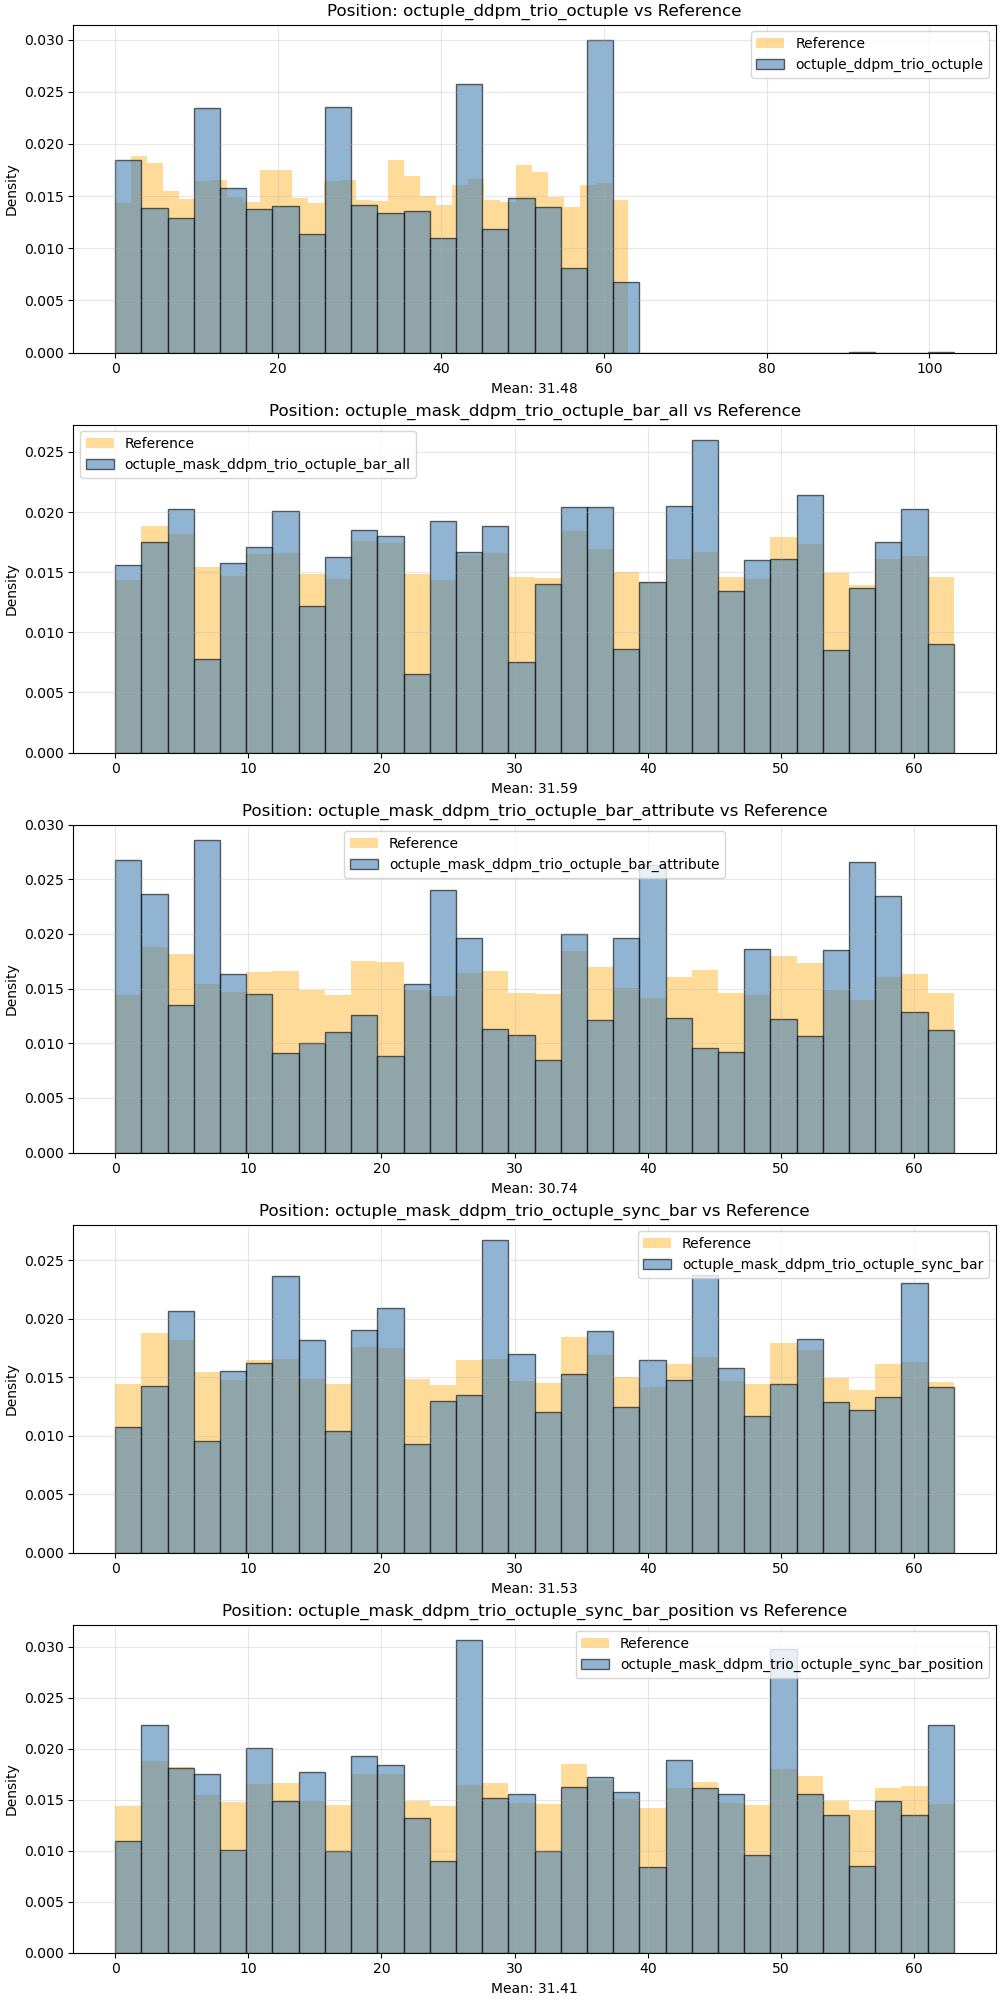
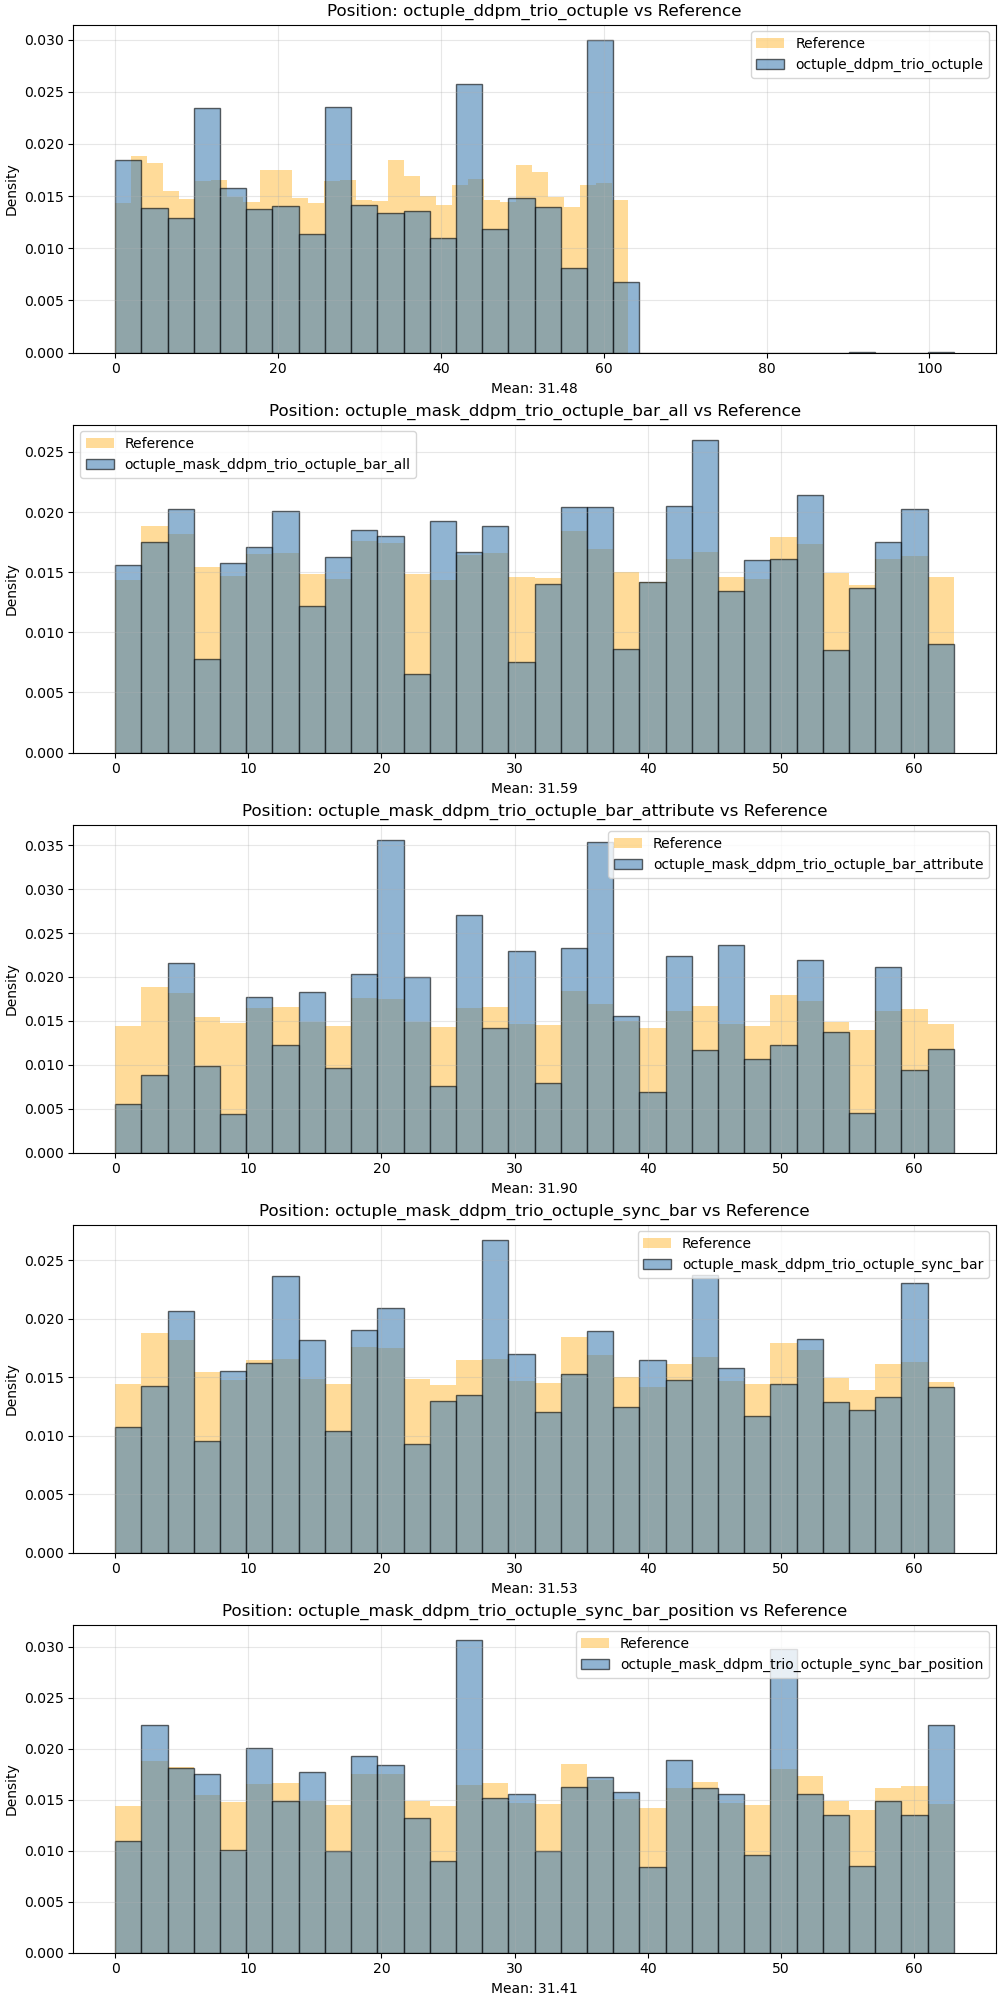
updated results

Changed region(s): [[0.093, 0.403, 0.961, 0.558], [0.031, 0.403, 0.062, 0.558]]

diff --git a/results/results_metrics_infill_latest.md b/results/results_metrics_infill_latest.md
@@ -1,18 +1,18 @@
-| Metric | musicbert_ddpm_trio_octuple | musicbert_ddpm_trio_octuple_bar_attribute | musicbert_ddpm_trio_octuple_sync_bar | musicbert_ddpm_trio_octuple_sync_bar_position | octuple_ddpm_trio_octuple | octuple_mask_ddpm_trio_octuple_bar_all | octuple_mask_ddpm_trio_octuple_bar_attribute | octuple_mask_ddpm_trio_octuple_mixed | octuple_mask_ddpm_trio_octuple_sync_bar | octuple_mask_ddpm_trio_octuple_sync_bar_position | schmu_conv_vae_trio | schmu_tx_vae_trio |
+| Metric | musicbert_ddpm_trio_octuple | musicbert_ddpm_trio_octuple_bar_attribute | musicbert_ddpm_trio_octuple_sync_bar | musicbert_ddpm_trio_octuple_sync_bar_position | octuple_ddpm_trio_octuple | octuple_mask_ddpm_trio_octuple_bar_all | octuple_mask_ddpm_trio_octuple_bar_attribute | octuple_mask_ddpm_trio_octuple_mixed | octuple_mask_ddpm_trio_octuple_sync_bar | octuple_mask_ddpm_trio_octuple_sync_bar_position | schmu_conv_trio | schmu_tx_trio |
 | --- | --- | --- | --- | --- | --- | --- | --- | --- | --- | --- | --- | --- |
-| bar_accuracy | 1.4180 | 2.2148 | 2.5625 | 2.5742 | None | 2.2500 | 47.2852 | None | 29.9805 | 30.1445 | None | None |
-| boundary_matches_pct | 98.0000 | 100.0000 | 100.0000 | 100.0000 | 100.0000 | 100.0000 | 4.0000 | 100.0000 | 100.0000 | 100.0000 | None | None |
-| boundary_pitch_smoothness | 12.6020 | 8.2500 | 8.7000 | 7.8000 | 10.4100 | 11.5900 | 10.7500 | 11.7400 | 6.0300 | 6.2700 | 5.8360 | 8.2800 |
-| boundary_rhythm_smoothness | 12.1837 | 8.7100 | 10.0800 | 8.9200 | 8.8200 | 8.6100 | 3.0000 | 7.3300 | 5.8400 | 7.8400 | None | None |
+| bar_accuracy | 1.4180 | 2.2148 | 2.5625 | 2.5742 | None | 2.2500 | 52.2930 | None | 29.9805 | 30.1445 | None | None |
+| boundary_matches_pct | 98.0000 | 100.0000 | 100.0000 | 100.0000 | 100.0000 | 100.0000 | 100.0000 | 100.0000 | 100.0000 | 100.0000 | None | None |
+| boundary_pitch_smoothness | 12.6020 | 8.2500 | 8.7000 | 7.8000 | 10.4100 | 11.5900 | 6.2600 | 11.7400 | 6.0300 | 6.2700 | 5.8360 | 8.2800 |
+| boundary_rhythm_smoothness | 12.1837 | 8.7100 | 10.0800 | 8.9200 | 8.8200 | 8.6100 | 6.9000 | 7.3300 | 5.8400 | 7.8400 | None | None |
 | correct_was_zero_pct | None | None | None | None | None | None | None | None | None | None | 92.4440 | 93.0997 |
-| duration_accuracy | 4.8672 | 5.5352 | 5.3906 | 5.4727 | 5.1523 | 5.9727 | 6.0977 | 5.4766 | 6.3359 | 6.3047 | None | None |
+| duration_accuracy | 4.8672 | 5.5352 | 5.3906 | 5.4727 | 5.1523 | 5.9727 | 6.3438 | 5.4766 | 6.3359 | 6.3047 | None | None |
 | infilled_count_error | 0.0000 | 0.0000 | 0.0000 | 0.0000 | 0.0000 | 0.0000 | 0.0000 | 0.0000 | 0.0000 | 0.0000 | 74.5238 | 42.0595 |
 | infilled_duration_total_error | None | None | None | None | 508.3900 | None | None | 357.4800 | None | None | 70.7500 | 66.7976 |
-| infilled_pch_kl | 0.0126 | 0.0072 | 0.0052 | 0.0073 | 0.0045 | 0.0105 | 0.0112 | 0.0218 | 0.0081 | 0.0059 | 0.0100 | 0.0147 |
+| infilled_pch_kl | 0.0126 | 0.0072 | 0.0052 | 0.0073 | 0.0045 | 0.0105 | 0.0032 | 0.0218 | 0.0081 | 0.0059 | 0.0100 | 0.0147 |
 | nonzero_token_accuracy | None | None | None | None | None | None | None | None | None | None | 10.1881 | 6.5533 |
-| pitch_accuracy | 4.3789 | 4.6680 | 4.6992 | 4.4883 | 5.2969 | 4.6523 | 5.5273 | 4.8320 | 5.5156 | 5.4297 | 47.7369 | 40.5227 |
-| pitch_range_mean | 69.6100 | 57.6000 | 57.1900 | 56.4600 | 54.3300 | 54.3500 | 52.1500 | 54.6400 | 52.8000 | 53.5100 | 51.1548 | 63.9881 |
-| position_accuracy | 4.7109 | 7.2422 | 7.0938 | 6.6992 | None | 5.8633 | 8.5742 | None | 7.4570 | 5.9141 | None | None |
-| sample_diversity | 371.4141 | 379.5028 | 377.6049 | 379.5569 | 386.2286 | 373.7908 | 385.0893 | 374.2921 | 387.9051 | 387.9395 | 0.8936 | 0.8634 |
+| pitch_accuracy | 4.3789 | 4.6680 | 4.6992 | 4.4883 | 5.2969 | 4.6523 | 5.2617 | 4.8320 | 5.5156 | 5.4297 | 47.7369 | 40.5227 |
+| pitch_range_mean | 69.6100 | 57.6000 | 57.1900 | 56.4600 | 54.3300 | 54.3500 | 52.6000 | 54.6400 | 52.8000 | 53.5100 | 51.1548 | 63.9881 |
+| position_accuracy | 4.7109 | 7.2422 | 7.0938 | 6.6992 | None | 5.8633 | 7.7969 | None | 7.4570 | 5.9141 | None | None |
+| sample_diversity | 371.4141 | 379.5028 | 377.6049 | 379.5569 | 386.2286 | 373.7908 | 389.6381 | 374.2921 | 387.9051 | 387.9395 | 0.8936 | 0.8634 |
 | token_accuracy | 0.0000 | 0.0000 | 0.0000 | 0.0000 | 0.0000 | 0.0000 | 0.0000 | 0.0000 | 0.0000 | 0.0039 | 47.7369 | 40.5227 |
 | valid_samples_pct | 97.0000 | 100.0000 | 100.0000 | 100.0000 | 100.0000 | 100.0000 | 100.0000 | 100.0000 | 100.0000 | 100.0000 | 100.0000 | 100.0000 |

diff --git a/results/results_metrics_uncond_latest.md b/results/results_metrics_uncond_latest.md
@@ -1,11 +1,11 @@
-| Metric | musicbert_ddpm_trio_octuple | musicbert_ddpm_trio_octuple_bar_attribute | musicbert_ddpm_trio_octuple_sync_bar | musicbert_ddpm_trio_octuple_sync_bar_position | octuple_ddpm_trio_octuple | octuple_mask_ddpm_trio_octuple_bar_all | octuple_mask_ddpm_trio_octuple_bar_attribute | octuple_mask_ddpm_trio_octuple_mixed | octuple_mask_ddpm_trio_octuple_sync_bar | octuple_mask_ddpm_trio_octuple_sync_bar_position | schmu_conv_vae_trio | schmu_tx_vae_trio |
+| Metric | musicbert_ddpm_trio_octuple | musicbert_ddpm_trio_octuple_bar_attribute | musicbert_ddpm_trio_octuple_sync_bar | musicbert_ddpm_trio_octuple_sync_bar_position | octuple_ddpm_trio_octuple | octuple_mask_ddpm_trio_octuple_bar_all | octuple_mask_ddpm_trio_octuple_bar_attribute | octuple_mask_ddpm_trio_octuple_mixed | octuple_mask_ddpm_trio_octuple_sync_bar | octuple_mask_ddpm_trio_octuple_sync_bar_position | schmu_conv_trio | schmu_tx_trio |
 | --- | --- | --- | --- | --- | --- | --- | --- | --- | --- | --- | --- | --- |
-| duration_kl | 0.2303 | 0.0198 | 0.0210 | 0.0225 | 0.1435 | 0.0458 | 0.0195 | 0.0447 | 0.0204 | 0.0072 | 0.0352 | 0.0666 |
+| duration_kl | 0.2303 | 0.0198 | 0.0210 | 0.0225 | 0.1435 | 0.0458 | 0.0051 | 0.0447 | 0.0204 | 0.0072 | 0.0352 | 0.0666 |
 | duration_mean | None | None | None | None | None | None | None | None | None | None | 2.4908 | 2.0863 |
-| note_density_kl | 1.6966 | 0.3313 | 0.2965 | 0.2794 | 0.4188 | 0.3962 | 0.2397 | 0.3240 | 0.1573 | 0.1153 | 0.1100 | 0.6504 |
-| pch_kl | 0.1136 | 0.0172 | 0.0142 | 0.0209 | 0.1071 | 0.5170 | 0.0301 | 0.3215 | 0.0047 | 0.0097 | 0.0487 | 0.1171 |
-| pitch_range_mean | 113.5400 | 57.5500 | 58.4300 | 57.9600 | 73.5500 | 58.8000 | 53.5500 | 58.7100 | 55.0600 | 55.6800 | 52.8400 | 72.1800 |
-| sample_diversity | 108.8899 | 123.7390 | 120.6895 | 112.2932 | 153.8754 | 142.4308 | 423.6659 | 144.5952 | 397.4343 | 406.7119 | 0.7971 | 0.4151 |
-| self_similarity | 0.8837 | 0.9648 | 0.9648 | 0.9651 | 0.9485 | 0.9603 | 0.9707 | 0.9680 | 0.9652 | 0.9653 | 0.8650 | 0.8931 |
+| note_density_kl | 1.6966 | 0.3313 | 0.2965 | 0.2794 | 0.4188 | 0.3962 | 0.1409 | 0.3240 | 0.1573 | 0.1153 | 0.1100 | 0.6504 |
+| pch_kl | 0.1136 | 0.0172 | 0.0142 | 0.0209 | 0.1071 | 0.5170 | 0.0029 | 0.3215 | 0.0047 | 0.0097 | 0.0487 | 0.1171 |
+| pitch_range_mean | 113.5400 | 57.5500 | 58.4300 | 57.9600 | 73.5500 | 58.8000 | 57.3800 | 58.7100 | 55.0600 | 55.6800 | 52.8400 | 72.1800 |
+| sample_diversity | 108.8899 | 123.7390 | 120.6895 | 112.2932 | 153.8754 | 142.4308 | 408.2395 | 144.5952 | 397.4343 | 406.7119 | 0.7971 | 0.4151 |
+| self_similarity | 0.8837 | 0.9648 | 0.9648 | 0.9651 | 0.9485 | 0.9603 | 0.9649 | 0.9680 | 0.9652 | 0.9653 | 0.8650 | 0.8931 |
 | valid_samples_pct | 30.0000 | 100.0000 | 100.0000 | 100.0000 | 100.0000 | 100.0000 | 100.0000 | 100.0000 | 100.0000 | 100.0000 | 100.0000 | 100.0000 |
-| velocity_kl | 0.3462 | 0.0825 | 0.0693 | 0.0523 | 0.1253 | 1.3616 | 0.0763 | 0.1709 | 0.0204 | 0.0247 | None | None |
+| velocity_kl | 0.3462 | 0.0825 | 0.0693 | 0.0523 | 0.1253 | 1.3616 | 0.0098 | 0.1709 | 0.0204 | 0.0247 | None | None |

diff --git a/results/results_metrics_infill_best.md b/results/results_metrics_infill_best.md
@@ -1,14 +1,14 @@
-| Metric | octuple_mask_ddpm_trio_octuple_bar_all | octuple_mask_ddpm_trio_octuple_bar_attribute | octuple_mask_ddpm_trio_octuple_sync_bar | octuple_mask_ddpm_trio_octuple_sync_bar_position |
-| --- | --- | --- | --- | --- |
-| boundary_matches_pct | 99.0000 | 3.0000 | 100.0000 | 100.0000 |
-| boundary_pitch_smoothness | 12.7475 | 9.3333 | 6.5000 | 6.1500 |
-| boundary_rhythm_smoothness | 9.0404 | 5.3333 | 6.1800 | 6.8800 |
-| duration_accuracy | 5.3984 | 5.9609 | 6.4375 | 6.2617 |
-| infilled_count_error | 0.0000 | 0.0000 | 0.0000 | 0.0000 |
-| infilled_duration_total_error | None | None | None | None |
-| infilled_pch_kl | 0.0078 | 0.0129 | 0.0090 | 0.0066 |
-| pitch_accuracy | 4.4102 | 5.4453 | 5.3711 | 5.3945 |
-| pitch_range_mean | 63.1900 | 52.0900 | 53.0900 | 53.1300 |
-| sample_diversity | 378.2358 | 384.4063 | 387.9706 | 387.9005 |
-| token_accuracy | 0.0000 | 0.0000 | 0.0156 | 0.0039 |
-| valid_samples_pct | 99.0000 | 100.0000 | 100.0000 | 100.0000 |
+| Metric | octuple_mask_ddpm_trio_octuple_bar_all | octuple_mask_ddpm_trio_octuple_sync_bar | octuple_mask_ddpm_trio_octuple_sync_bar_position |
+| --- | --- | --- | --- |
+| boundary_matches_pct | 99.0000 | 100.0000 | 100.0000 |
+| boundary_pitch_smoothness | 12.7475 | 6.5000 | 6.1500 |
+| boundary_rhythm_smoothness | 9.0404 | 6.1800 | 6.8800 |
+| duration_accuracy | 5.3984 | 6.4375 | 6.2617 |
+| infilled_count_error | 0.0000 | 0.0000 | 0.0000 |
+| infilled_duration_total_error | None | None | None |
+| infilled_pch_kl | 0.0078 | 0.0090 | 0.0066 |
+| pitch_accuracy | 4.4102 | 5.3711 | 5.3945 |
+| pitch_range_mean | 63.1900 | 53.0900 | 53.1300 |
+| sample_diversity | 378.2358 | 387.9706 | 387.9005 |
+| token_accuracy | 0.0000 | 0.0156 | 0.0039 |
+| valid_samples_pct | 99.0000 | 100.0000 | 100.0000 |

diff --git a/results/results_metrics_uncond_best.md b/results/results_metrics_uncond_best.md
@@ -1,10 +1,10 @@
-| Metric | octuple_mask_ddpm_trio_octuple_bar_all | octuple_mask_ddpm_trio_octuple_bar_attribute | octuple_mask_ddpm_trio_octuple_sync_bar | octuple_mask_ddpm_trio_octuple_sync_bar_position |
-| --- | --- | --- | --- | --- |
-| duration_kl | 0.0433 | 0.0221 | 0.0099 | 0.0025 |
-| note_density_kl | 0.2271 | 0.2152 | 0.1069 | 0.1547 |
-| pch_kl | 0.7419 | 0.0223 | 0.0106 | 0.0046 |
-| pitch_range_mean | 68.3500 | 51.6200 | 56.2600 | 57.5000 |
-| sample_diversity | 131.1719 | 416.4905 | 387.8399 | 388.2496 |
-| self_similarity | 0.9523 | 0.9718 | 0.9646 | 0.9638 |
-| valid_samples_pct | 97.0000 | 100.0000 | 100.0000 | 100.0000 |
-| velocity_kl | 0.3998 | 0.0668 | 0.0511 | 0.0079 |
+| Metric | octuple_mask_ddpm_trio_octuple_bar_all | octuple_mask_ddpm_trio_octuple_sync_bar | octuple_mask_ddpm_trio_octuple_sync_bar_position |
+| --- | --- | --- | --- |
+| duration_kl | 0.0433 | 0.0099 | 0.0025 |
+| note_density_kl | 0.2271 | 0.1069 | 0.1547 |
+| pch_kl | 0.7419 | 0.0106 | 0.0046 |
+| pitch_range_mean | 68.3500 | 56.2600 | 57.5000 |
+| sample_diversity | 131.1719 | 387.8399 | 388.2496 |
+| self_similarity | 0.9523 | 0.9646 | 0.9638 |
+| valid_samples_pct | 97.0000 | 100.0000 | 100.0000 |
+| velocity_kl | 0.3998 | 0.0511 | 0.0079 |
